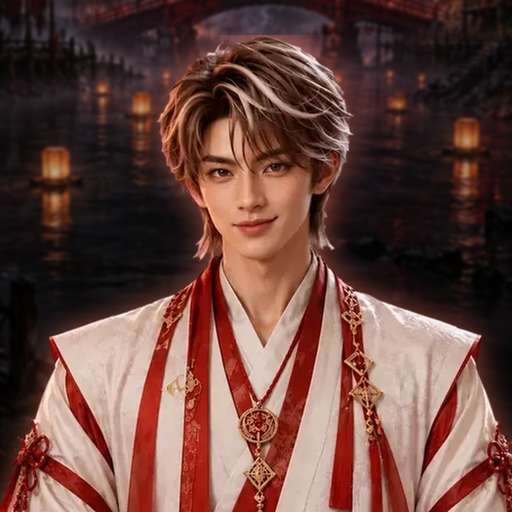
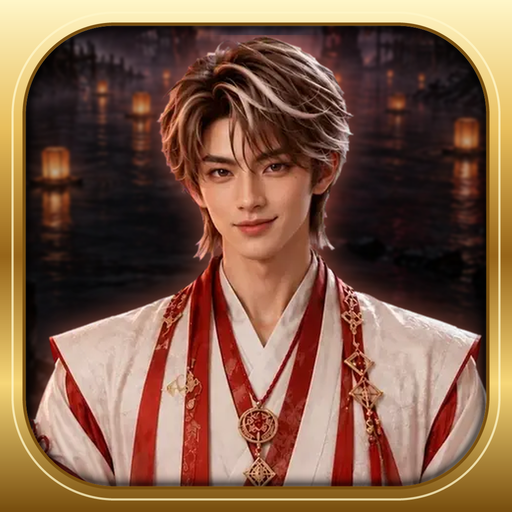
v1.3.9 主畫面圖示加金色邊框

Changed region(s): [[0.0, 0.0, 1.0, 1.0]]

diff --git a/index.html b/index.html
@@ -8,10 +8,10 @@
 <link rel="apple-touch-icon" href="icons/icon1-180.png">
 <link rel="manifest" href="icons/manifest1.webmanifest">
 <meta name="apple-mobile-web-app-title" content="黃泉燒肉店">
-<script src="homeicon.js?v=62" data-key="hq-homeicon" data-names="月老卡面,微笑,認真,發招" data-accent="#d4a23a" data-bg="#1a0d08"></script>
+<script src="homeicon.js?v=63" data-key="hq-homeicon" data-names="月老卡面,微笑,認真,發招" data-accent="#d4a23a" data-bg="#1a0d08"></script>
 <link rel="preconnect" href="https://fonts.googleapis.com">
 <link rel="stylesheet" href="https://fonts.googleapis.com/css2?family=Noto+Serif+TC:wght@900&text=%E9%BB%83%E6%B3%89%E7%87%92%E8%82%89%E5%BA%97%E5%A6%82%E5%85%A5%E7%81%AB%E8%81%9A%E5%BE%97%E6%B8%85%E6%B6%BC%E9%96%80%E9%BB%9E%E4%B8%80%E4%B8%8B%E9%80%B2%E5%85%A5&display=swap">
-<link rel="stylesheet" href="style.css?v=62">
+<link rel="stylesheet" href="style.css?v=63">
 </head>
 <body>
 <div id="app">
@@ -120,16 +120,16 @@
     <button class="dlg-skip">略過 ››</button>
   </div>
 </div>
-<script src="data.js?v=62"></script>
-<script src="cards.js?v=62"></script>
-<script src="profiles.js?v=62"></script>
-<script src="story.js?v=62"></script>
-<script src="story-ch6.js?v=62"></script>
-<script src="story-ch7.js?v=62"></script>
-<script src="story-ch8.js?v=62"></script>
-<script src="story-ch9.js?v=62"></script>
-<script src="story-ch10.js?v=62"></script>
-<script src="audio.js?v=62"></script>
-<script src="game.js?v=62"></script>
+<script src="data.js?v=63"></script>
+<script src="cards.js?v=63"></script>
+<script src="profiles.js?v=63"></script>
+<script src="story.js?v=63"></script>
+<script src="story-ch6.js?v=63"></script>
+<script src="story-ch7.js?v=63"></script>
+<script src="story-ch8.js?v=63"></script>
+<script src="story-ch9.js?v=63"></script>
+<script src="story-ch10.js?v=63"></script>
+<script src="audio.js?v=63"></script>
+<script src="game.js?v=63"></script>
 </body>
 </html>

diff --git a/data.js b/data.js
@@ -8,7 +8,7 @@
    ========================================================================= */
 
 /* 版本：每次對外更新記得往上加，標題畫面與設定都會顯示 */
-window.GAME_VERSION = "1.3.8";
+window.GAME_VERSION = "1.3.9";
 
 window.ATTR = {
   water: { name: "水", color: "#3fa7ff", dark: "#0b4c8c", glyph: "水" },
